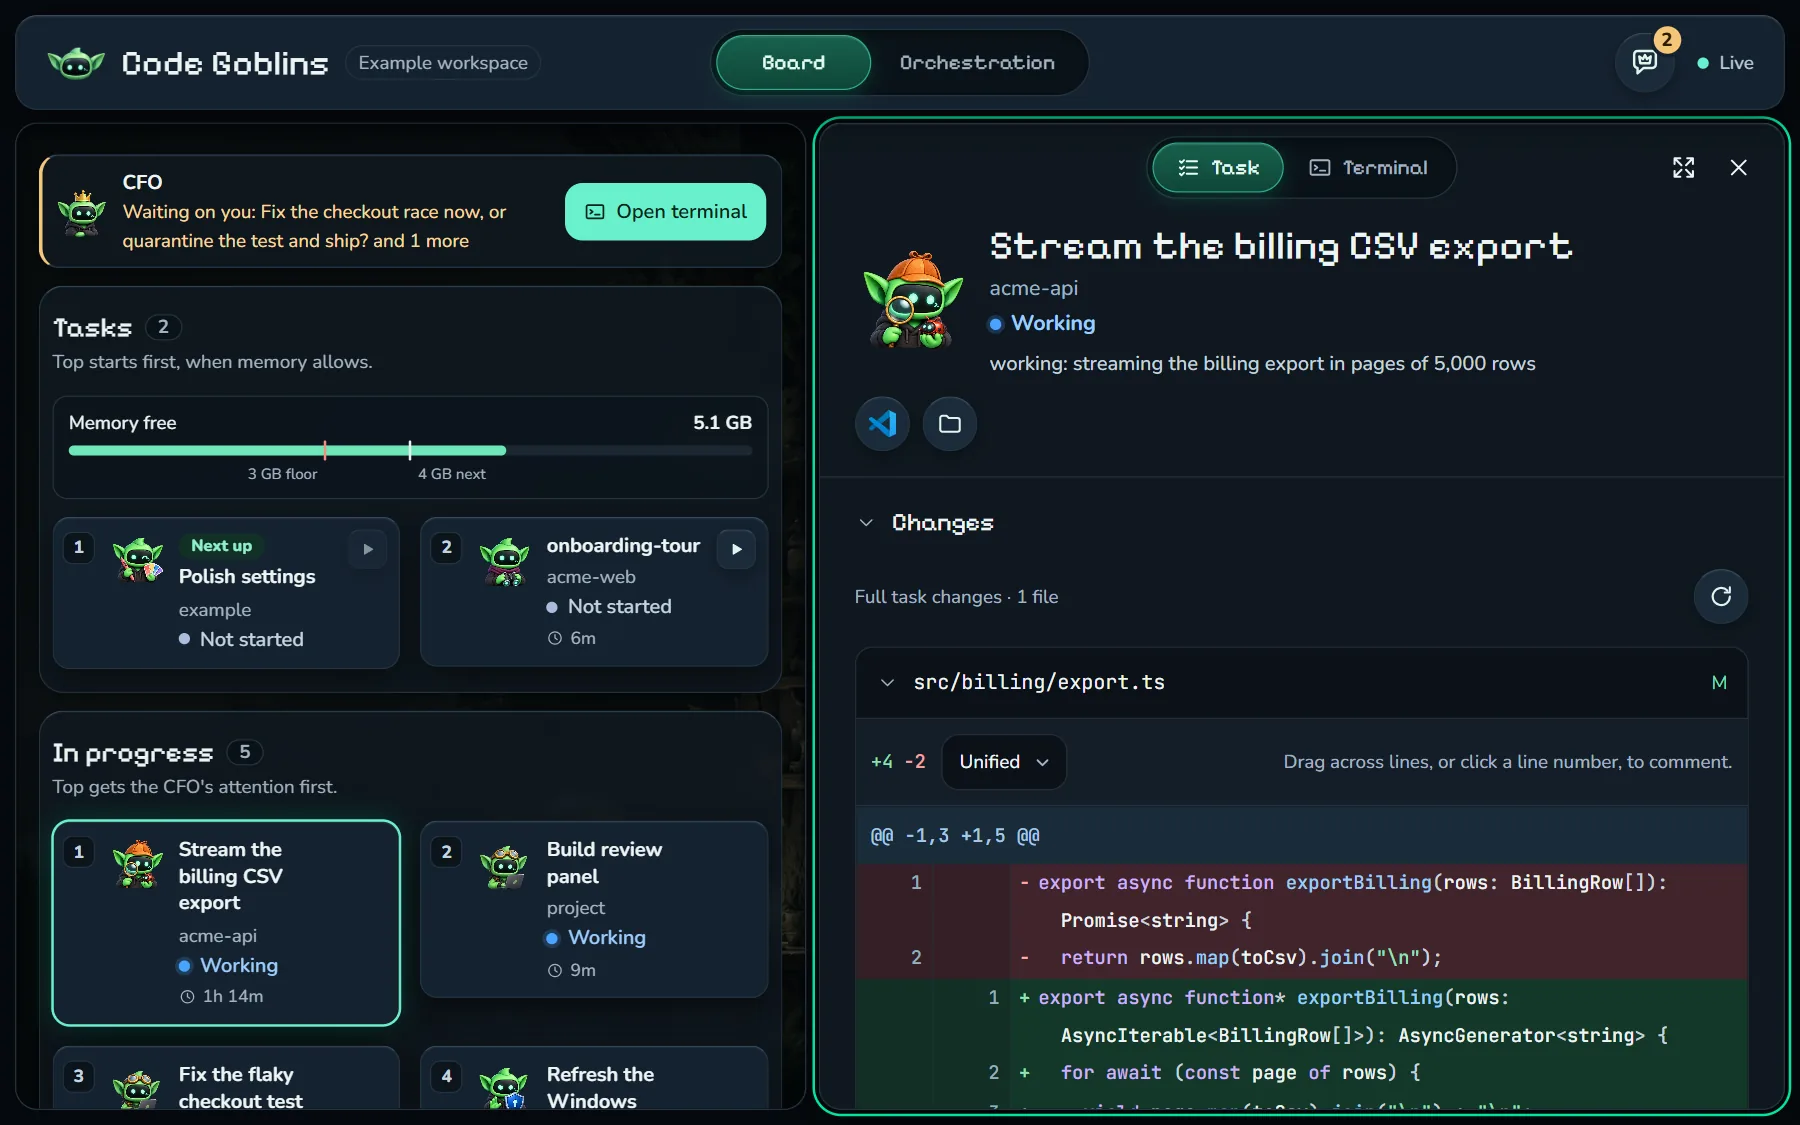
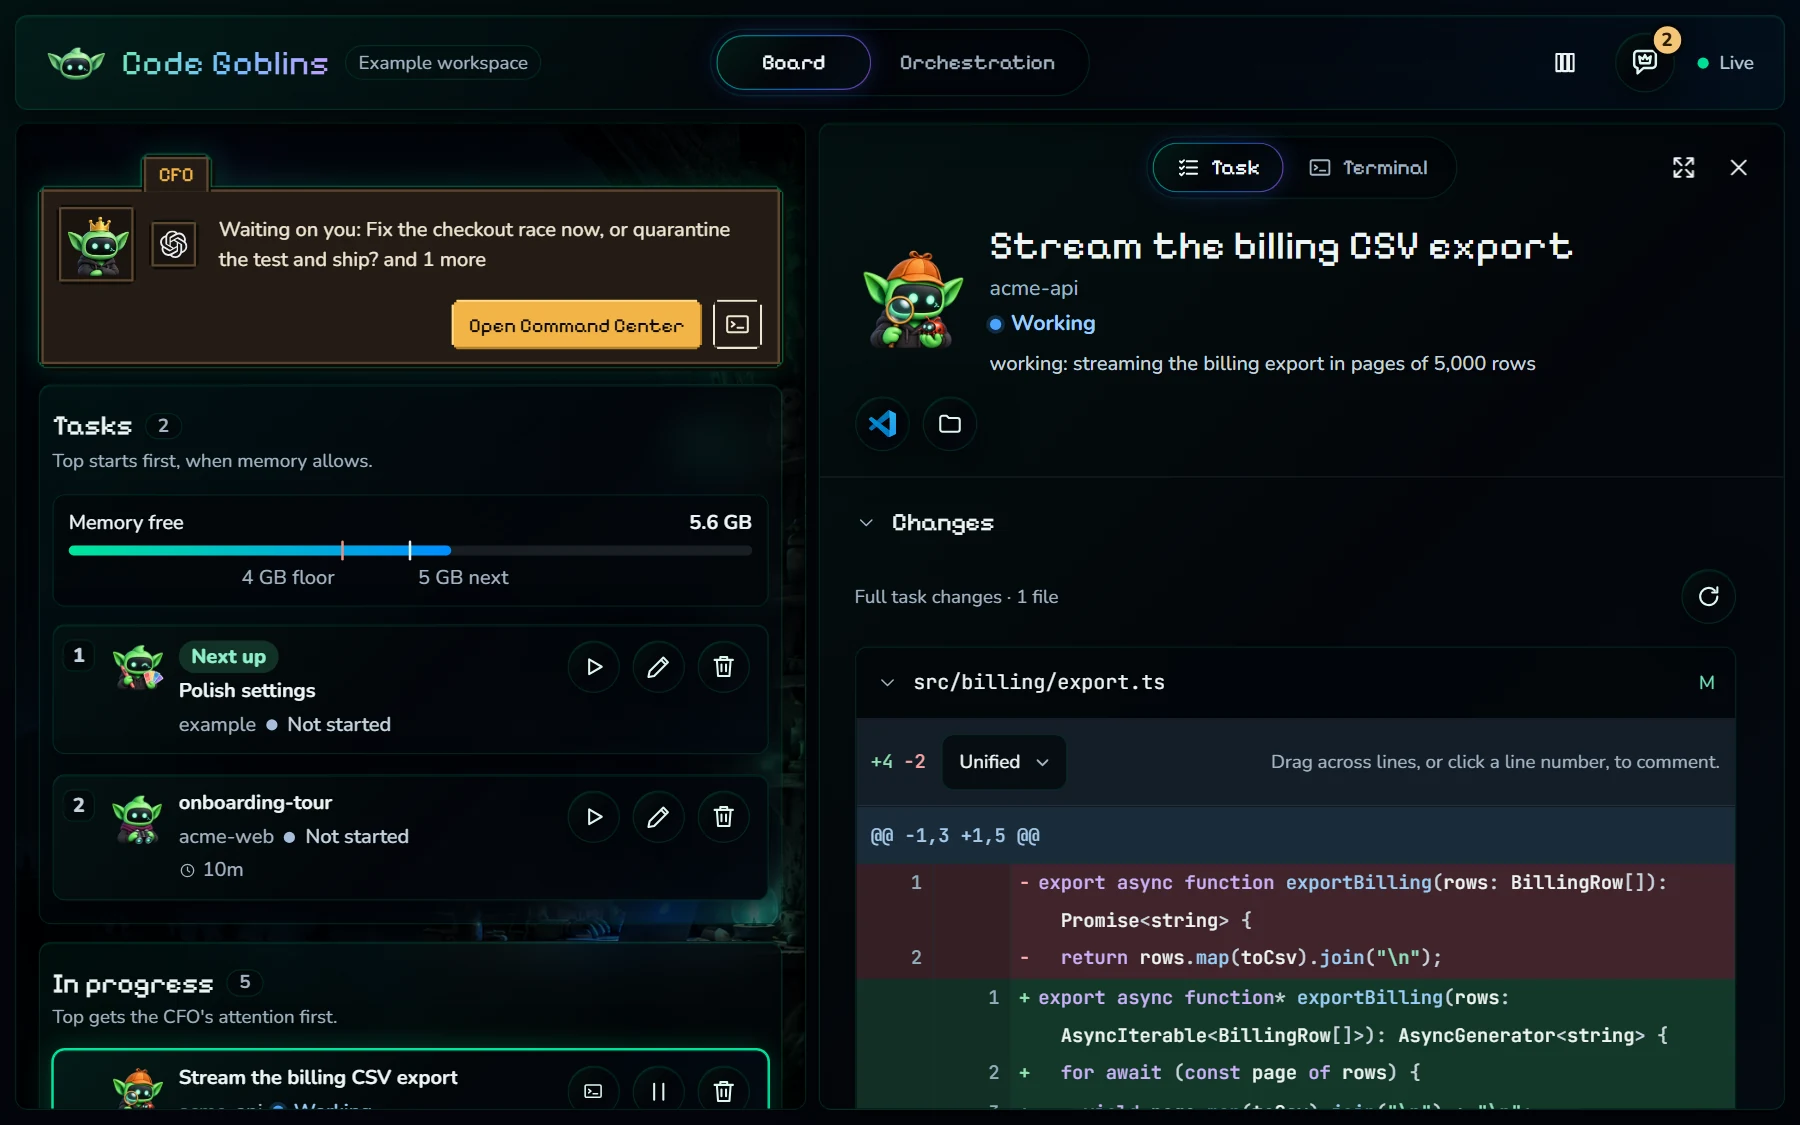
docs(readme): recapture the hero, board and orchestration in the SIQstack look
The README's main screenshots showed the board before the restyle and the regenerated workshop background. They come from the same staged example workspace, with a staged memory reading so no capture names the capturing machine's apps.

diff --git a/README.md b/README.md
@@ -182,7 +182,7 @@ When it needs you, it asks on the board: a decision, a page to review, or a comm
 ## Using the board
 
 <p align="center">
-  <img src="docs/images/board-review.webp" alt="Board view: the CFO pinned above the columns, two numbered queued tasks with the memory meter and Start now, five goblins in progress, and the selected goblin's panel with its status, workspace, Connectors and Changes" width="900" />
+  <img src="docs/images/board-review.webp" alt="Board view: the CFO's bar above the columns, two numbered queued tasks under the memory meter, each with start, edit and delete buttons, five goblins in progress, and the selected goblin's panel with its status, workspace, Connections and Changes" width="900" />
 </p>
 
 `cfo serve` runs the native supervisor and serves its board, which is compiled into `cfo.exe`, at `http://127.0.0.1:4310`.
@@ -217,7 +217,7 @@ The header switches between two views, one at a time, each with a contextual pan
 - **Orchestration** is the live family tree: the CFO above its goblins and any child sessions they reported. The panel shows the selected session's real native terminal and starts on the CFO, whose terminal is shown from its host when the CFO runs in a native terminal. Dragging cards, panning, zooming, **Fit** and **Arrange** change only the layout, because parentage comes from native session evidence. A brief pulse along a connector marks a real accepted message.
 
 <p align="center">
-  <img src="docs/images/orchestration.webp" alt="Orchestration view: the CFO above five goblins in four repositories, with the selected goblin's live native terminal in the right panel" width="900" />
+  <img src="docs/images/orchestration.webp" alt="Orchestration view over the goblin workshop at night: the CFO above five goblins in four repositories, with the selected goblin's live native terminal in the right panel" width="900" />
 </p>
 
 Each card shows the task's short title and a muted line with its repo and status; the goblin's own words are in its panel.
